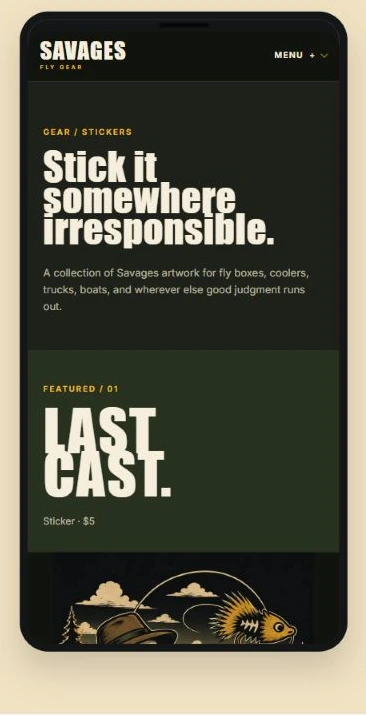
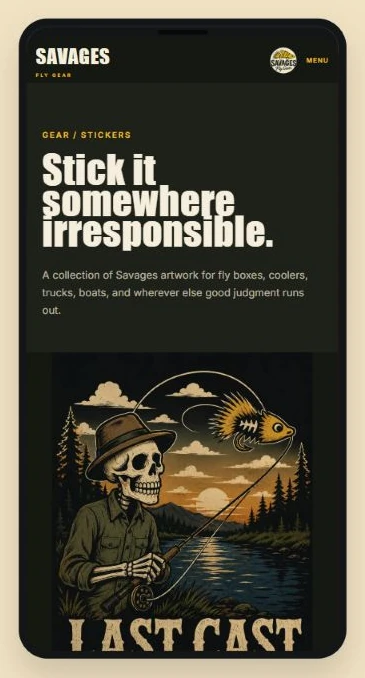
Rebuild Savages modernization case study

diff --git a/src/components/website-modernization-page.tsx b/src/components/website-modernization-page.tsx
@@ -11,7 +11,7 @@ export function WebsiteModernizationPage(){return <Shell><div className="wm-page
 <section className="wm-evaluate"><div className="wrap"><div><p className="wm-eyebrow">WHAT WE LOOK AT</p><h2>We start with the experience you already have.</h2><p>Before deciding what to change, we look at how a real customer encounters your current site.</p></div><ol>{evaluate.map((x,i)=><li key={x}><b>{String(i+1).padStart(2,"0")}</b><span>{x}</span><small>{["Does it work naturally on a phone?","Can people find what they came for?","Is the important information obvious?","Can someone take the next step without searching?","Does the site represent the business today?","Are photos doing useful work?","Is the site clear to maintain?","Are there obvious performance or compatibility issues?"][i]}</small></li>)}</ol></div></section>
 <section className="wm-work"><div className="wrap"><p className="wm-eyebrow">WHAT WE CHANGE</p><h2>Modernization is more than a new coat of paint.</h2><div>{change.map((x,i)=><article key={x}><b>0{i+1}</b><p>{x}</p></article>)}</div></div></section>
 <section className="wm-preserve"><div className="wrap"><div><p className="wm-eyebrow">WHAT WE KEEP</p><h2>The goal isn&apos;t to erase what already works.</h2></div><div>{keep.map((x,i)=><p key={x}><b>0{i+1}</b>{x}</p>)}<span>Then we build a clearer, faster experience around those assets.</span></div></div></section>
-<section className="wm-proof"><div className="wrap"><p className="wm-eyebrow">MODERNIZATION IN PRACTICE</p><h2>Same business. A much better experience.</h2><p className="wm-proof-copy">We kept the Savages personality and core content, then rebuilt the experience around clearer hierarchy, stronger visual storytelling, and mobile-first design.</p><div className="wm-gear-proof"><figure className="wm-gear-proof-legacy"><figcaption>BEFORE / LEGACY</figcaption><Image src="/assets/savages-gear-legacy-proof.webp" alt="Legacy Savages Gear catalog with conventional navigation, sidebar, and sticker grid" width={980} height={760} sizes="(max-width: 800px) 100vw, 29vw" /></figure><span className="wm-gear-proof-arrow" aria-hidden="true">→</span><figure className="wm-gear-proof-modern"><figcaption>MODERNIZED</figcaption><Image src="/assets/savages-gear-modern-proof.webp" alt="Modern Savages Gear desktop experience" width={1265} height={760} sizes="(max-width: 800px) 100vw, 61vw" /><figure className="wm-gear-phone-group"><figcaption>MOBILE FIRST</figcaption><Image src="/assets/savages-gear-mobile-proof.webp" alt="Framed mobile Savages Gear experience" width={366} height={715} sizes="(max-width: 800px) 52vw, 15vw" /></figure></figure></div></div></section>
+<section className="wm-proof"><div className="wrap"><p className="wm-eyebrow">MODERNIZATION IN PRACTICE</p><h2>Same business. A much better experience.</h2><p className="wm-proof-copy">We kept the Savages personality and core content, then rebuilt the experience around clearer hierarchy, stronger visual storytelling, and mobile-first design.</p><div className="wm-case-opening"><figure className="wm-case-stage wm-case-legacy"><figcaption>01 / WHERE IT STARTED</figcaption><Image src="/assets/savages-gear-legacy-proof.webp" alt="Legacy Savages Gear catalog with sidebar navigation, sticker products, and prices" width={1265} height={712} sizes="(max-width: 800px) 100vw, 34vw" /><p>Same products. Desktop-first presentation.</p></figure><figure className="wm-case-stage wm-case-modern"><figcaption>02 / MODERNIZED EXPERIENCE</figcaption><Image src="/assets/savages-gear-modern-hero-proof.webp" alt="Modern Savages Gear opening experience with the Last Cast feature" width={1265} height={712} sizes="(max-width: 800px) 100vw, 66vw" /></figure></div><div className="wm-case-depth"><figure className="wm-case-stage wm-case-collection"><figcaption>03 / SAME CONTENT, BETTER SYSTEM</figcaption><Image src="/assets/savages-gear-modern-collection-proof.webp" alt="Modern Savages Gear sticker collection with six designs and sticker prices" width={1265} height={977} sizes="(max-width: 800px) 100vw, 74vw" /></figure><figure className="wm-case-stage wm-case-phone"><figcaption>04 / MOBILE FIRST</figcaption><Image src="/assets/savages-gear-mobile-proof.webp" alt="Approved framed mobile Savages Gear presentation" width={365} height={678} sizes="(max-width: 800px) 62vw, 17vw" /><p>Same visual system. Reprioritized for the screen in your hand.</p></figure></div></div></section>
 <section className="wm-starting"><div className="wrap"><p className="wm-eyebrow">STARTING SCOPE</p><h2>A straightforward modernization can stay straightforward.</h2><div><article><b>Website Modernization</b><strong>Starting at $500</strong><span>For a straightforward small-business informational site—typically 1–3 primary pages or equivalent simple scope.</span></article><article><p>Typical starting scope</p><span>Existing brand and content as a foundation, a modern responsive redesign, mobile-first implementation, a contact/conversion path, and launch or migration support.</span></article></div></div></section>
 <section className="wm-larger"><div className="wrap"><div><p className="wm-eyebrow">WHEN WE SCOPE MORE</p><h2>Some websites need more than a refresh.</h2></div><div><p>Larger multi-page sites, significant content development, integrations, complex forms, ecommerce, portals, custom functionality, and substantial brand redesign all deserve a defined scope and price before work begins.</p><Link className="wm-text-link focus-ring" href="/pricing">See Pricing <span>→</span></Link></div></div></section>
 <section className="wm-final"><div className="wrap"><p className="wm-eyebrow">NEXT STEP</p><h2>Not sure what your current site really needs?</h2><p>Show us the website you&apos;ve outgrown. We&apos;ll help you determine whether it needs a focused modernization or something more substantial.</p><div><Link className="wm-button focus-ring" href="/contact">Start a Conversation <span>↗</span></Link><Link className="wm-text-link focus-ring" href="/pricing">See Pricing</Link></div></div></section>

diff --git a/src/app/website-modernization-proof.css b/src/app/website-modernization-proof.css
@@ -1,3 +1,3 @@
-.wm-proof{padding:clamp(4.75rem,7vw,7rem) 0}.wm-proof h2{max-width:800px}.wm-proof-copy{max-width:660px;margin:1.35rem 0 0;color:rgba(23,25,28,.66);font-size:1rem;line-height:1.7}.wm-gear-proof{display:grid;grid-template-columns:minmax(250px,.46fr) 34px minmax(0,1fr);gap:clamp(1rem,2.5vw,2.5rem);align-items:center;margin-top:2.05rem}.wm-gear-proof figure{margin:0}.wm-gear-proof figcaption{margin:0 0 .75rem;color:#b75d42;font-size:.66rem;font-weight:700;letter-spacing:.14em}.wm-gear-proof>figure>img{display:block;width:100%;height:auto;border:1px solid rgba(23,25,28,.14);box-shadow:0 14px 29px rgba(23,25,28,.09)}.wm-gear-proof-arrow{color:#b75d42;font-size:1.7rem;text-align:center}.wm-gear-proof-modern{position:relative;padding-bottom:2.1rem}.wm-gear-phone-group{position:absolute;right:clamp(.6rem,3vw,2rem);bottom:-1.8rem;z-index:1;width:clamp(125px,14vw,174px)}.wm-gear-phone-group figcaption{margin-bottom:.35rem;color:#49647a;text-align:center}.wm-gear-phone-group>img{display:block;width:100%;height:auto;filter:drop-shadow(0 14px 20px rgba(23,25,28,.16))}
-@media(max-width:1000px){.wm-gear-proof{grid-template-columns:minmax(220px,.5fr) 24px minmax(0,1fr);gap:1rem}.wm-gear-phone-group{right:.75rem;width:132px}}
-@media(max-width:800px){.wm-proof-copy{font-size:.95rem;line-height:1.65}.wm-gear-proof{grid-template-columns:1fr;gap:1.65rem;margin-top:2rem}.wm-gear-proof-arrow{height:24px;transform:rotate(90deg)}.wm-gear-proof-legacy{width:min(86%,520px)}.wm-gear-proof-modern{padding-bottom:0}.wm-gear-phone-group{position:relative;right:auto;bottom:auto;width:min(49%,220px);margin:1.7rem auto 0}.wm-gear-phone-group figcaption{text-align:center}}
+.wm-proof{padding:clamp(5rem,7.5vw,7.75rem) 0 clamp(5.5rem,8vw,8.5rem);background:#f5f1e8}.wm-proof h2{max-width:820px}.wm-proof-copy{max-width:680px;margin:1.35rem 0 0;color:rgba(23,25,28,.66);font-size:1rem;line-height:1.7}.wm-case-stage{margin:0}.wm-case-stage figcaption{display:flex;align-items:center;gap:.75rem;margin:0 0 .8rem;color:#b75d42;font-size:.66rem;font-weight:700;letter-spacing:.15em}.wm-case-stage figcaption:before{width:32px;height:1px;background:currentColor;content:""}.wm-case-stage>img{display:block;width:100%;height:auto;border:1px solid rgba(23,25,28,.15)}.wm-case-stage>p{margin:.8rem 0 0;color:rgba(23,25,28,.62);font-size:.8rem;line-height:1.5}.wm-case-opening{display:grid;grid-template-columns:minmax(0,.5fr) minmax(0,1fr);gap:clamp(1.75rem,5vw,5.5rem);align-items:end;max-width:1180px;margin:3.4rem auto 0}.wm-case-legacy{width:86%;justify-self:start}.wm-case-modern{position:relative;z-index:1;margin-bottom:-2.6rem}.wm-case-modern:before{position:absolute;top:-2.1rem;left:-clamp(2rem,6vw,6rem);z-index:-1;width:clamp(4.5rem,13vw,10rem);height:1px;background:#b75d42;content:""}.wm-case-depth{position:relative;max-width:1180px;margin:clamp(4.8rem,8vw,7.5rem) auto 0;padding-right:clamp(135px,18vw,245px)}.wm-case-collection{width:100%}.wm-case-phone{position:absolute;right:0;bottom:clamp(1rem,5vw,4.75rem);z-index:2;width:clamp(150px,17vw,220px)}.wm-case-phone figcaption{justify-content:center;color:#49647a;white-space:nowrap}.wm-case-phone figcaption:before{width:20px}.wm-case-phone>img{border:0;filter:drop-shadow(0 16px 22px rgba(23,25,28,.18))}.wm-case-phone>p{font-size:.72rem;text-align:center}
+@media(max-width:1000px){.wm-case-opening{gap:2.25rem}.wm-case-legacy{width:96%}.wm-case-depth{padding-right:clamp(110px,17vw,170px)}.wm-case-phone{width:clamp(122px,18vw,170px);bottom:1.5rem}}
+@media(max-width:800px){.wm-proof{padding:4.5rem 0 5rem}.wm-proof-copy{font-size:.95rem;line-height:1.65}.wm-case-opening{display:block;margin-top:2.8rem}.wm-case-stage figcaption{margin-bottom:.7rem}.wm-case-legacy{width:100%;margin:0}.wm-case-modern{margin:2.8rem 0 0}.wm-case-modern:before{display:none}.wm-case-depth{display:block;margin-top:2.8rem;padding:0}.wm-case-phone{position:relative;right:auto;bottom:auto;width:min(62%,250px);margin:2.9rem auto 0}.wm-case-phone>p{font-size:.75rem}.wm-case-phone figcaption{justify-content:flex-start}.wm-case-phone figcaption:before{width:32px}}
